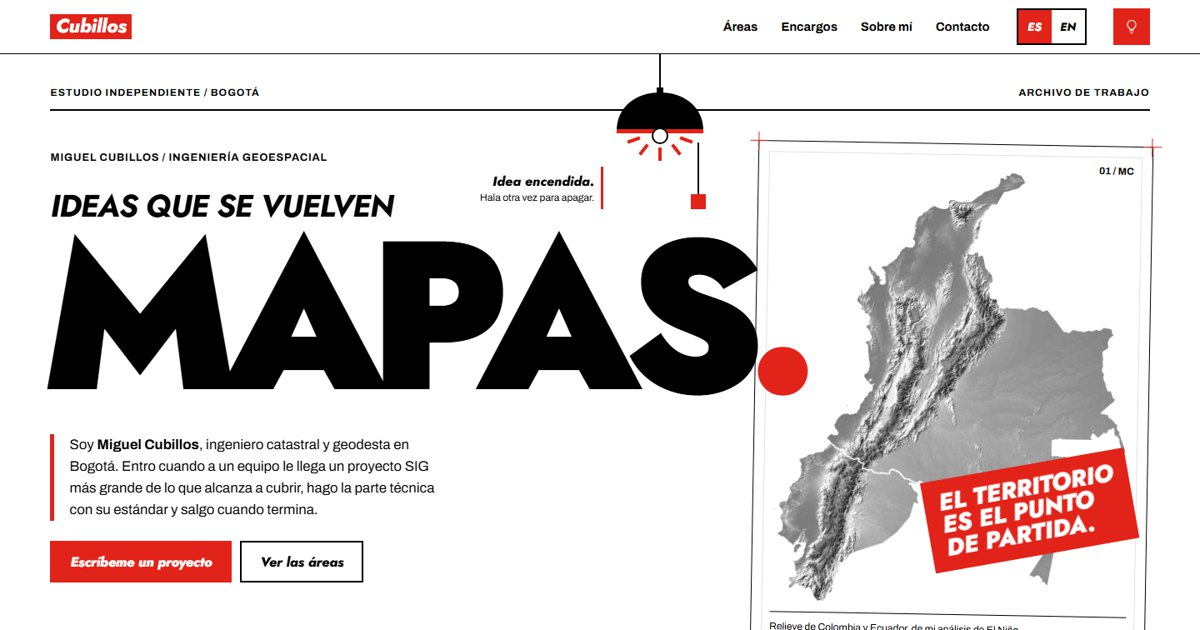
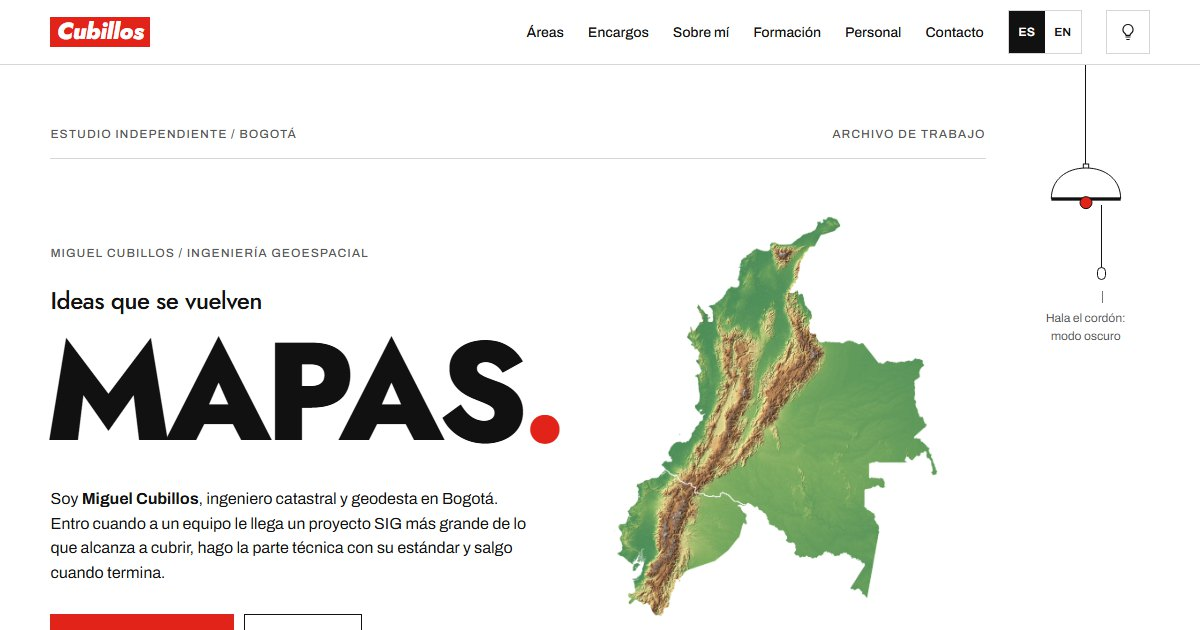
Menu con Formacion y Personal, Instagram en contacto, ficha de persona para buscadores, sitemap, robots e imagen para compartir nueva

diff --git a/index.html b/index.html
@@ -14,13 +14,14 @@
 <meta property="og:description" content="Ideas que se vuelven mapas: BIM a interiores, automatización, teledetección, riesgo, cartografía y docencia.">
 <meta property="og:url" content="https://cubillos22.github.io/">
 <meta property="og:image" content="https://cubillos22.github.io/assets/og-preview.jpg">
+<script type="application/ld+json">{"@context":"https://schema.org","@type":"Person","name":"Miguel Ángel Cubillos Cohecha","alternateName":"Miguel Cubillos","jobTitle":"Ingeniero catastral y geodesta · SIG","url":"https://cubillos22.github.io/","image":"https://cubillos22.github.io/assets/og-preview.jpg","address":{"@type":"PostalAddress","addressLocality":"Bogotá","addressCountry":"CO"},"alumniOf":{"@type":"CollegeOrUniversity","name":"Universidad Distrital Francisco José de Caldas"},"knowsAbout":["SIG","GIS","ArcGIS","BIM","ArcGIS Indoors","Python","Teledetección","InSAR","LiDAR","Cartografía","Gestión del riesgo"],"sameAs":["https://www.linkedin.com/in/miguel-cubillos/","https://www.instagram.com/cubillos__/","https://github.com/cubillos22","https://scienti.minciencias.gov.co/cvlac/visualizador/generarCurriculoCv.do?cod_rh=0002532098"]}</script>
 <meta name="twitter:card" content="summary_large_image">
 <link rel="icon" href="assets/favicon.svg?v=2" type="image/svg+xml">
 <link rel="icon" href="assets/favicon-32.png?v=2" sizes="32x32" type="image/png">
 <link rel="apple-touch-icon" href="assets/apple-touch-icon.png?v=2">
 <link rel="preconnect" href="https://fonts.googleapis.com"><link rel="preconnect" href="https://fonts.gstatic.com" crossorigin>
 <link href="https://fonts.googleapis.com/css2?family=Jost:ital,wght@0,400..900;1,400..900&family=Archivo:wdth,wght@62..125,400..800&display=swap" rel="stylesheet">
-<link rel="stylesheet" href="assets/box.css?v=20">
+<link rel="stylesheet" href="assets/box.css?v=21">
 <script>/* tema e idioma antes de pintar, sin parpadeo */(function(h){try{var q=new URLSearchParams(location.search).get("lang"),l=q||localStorage.getItem("lang")||((navigator.language||"es").slice(0,2)=="es"?"es":"en"),s=localStorage.getItem("light"),on=s?s=="1":!matchMedia("(prefers-color-scheme: dark)").matches;h.lang=h.dataset.lang=l;h.dataset.theme=on?"light":"dark";h.classList.toggle("lamp-on",on)}catch(e){}})(document.documentElement)</script>
 </head>
 <body>
@@ -32,6 +33,8 @@
   <a href="#areas"><span lang="es">Áreas</span><span lang="en">Areas</span></a>
   <a href="#servicios"><span lang="es">Encargos</span><span lang="en">Services</span></a>
   <a href="#sobre"><span lang="es">Sobre mí</span><span lang="en">About</span></a>
+  <a href="#formacion"><span lang="es">Formación</span><span lang="en">Training</span></a>
+  <a href="#personal"><span lang="es">Personal</span><span lang="en">Personal</span></a>
   <a href="#contacto"><span lang="es">Contacto</span><span lang="en">Contact</span></a>
  </nav>
  <button class="lang-toggle" type="button" aria-pressed="false" aria-label="Cambiar a inglés" data-label-en="Switch to Spanish" data-cursor="Idioma" data-cursor-en="Language"><span class="o" data-l="es">ES</span><span class="o" data-l="en">EN</span><i aria-hidden="true"></i></button>
@@ -262,13 +265,13 @@
 <h2 id="h-contact"><span lang="es"><span class="kb">Cuéntame</span><span class="kb">qué le falta</span><span class="kb">a tu proyecto.</span></span><span lang="en"><span class="kb">Tell me what</span><span class="kb">your project</span><span class="kb">is missing.</span></span></h2>
 <a class="mail" href="mailto:cubillosmiguel__@hotmail.com?subject=Proyecto%20SIG" translate="no">cubillosmiguel__@hotmail.com</a>
 <span class="hint"><span lang="es">Dos guiones bajos antes de la @.</span><span lang="en">Two underscores before the @.</span></span>
-<div class="ctas"><a class="btn solid" data-magnet href="mailto:cubillosmiguel__@hotmail.com?subject=Proyecto%20SIG"><span lang="es">Escribir un correo</span><span lang="en">Send an email</span></a><a class="btn" href="https://www.linkedin.com/in/miguel-cubillos/" target="_blank" rel="noopener">LinkedIn</a></div>
+<div class="ctas"><a class="btn solid" data-magnet href="mailto:cubillosmiguel__@hotmail.com?subject=Proyecto%20SIG"><span lang="es">Escribir un correo</span><span lang="en">Send an email</span></a><a class="btn" href="https://www.linkedin.com/in/miguel-cubillos/" target="_blank" rel="noopener">LinkedIn</a><a class="btn" href="https://www.instagram.com/cubillos__/" target="_blank" rel="noopener">Instagram</a></div>
 <footer class="foot"><span translate="no">Miguel Ángel Cubillos Cohecha</span><span><span lang="es">Bogotá, Colombia · trabajo remoto</span><span lang="en">Bogotá, Colombia · remote work</span></span><a href="#inicio"><span lang="es">Volver arriba</span><span lang="en">Back to top</span></a></footer>
 </section>
 </main>
 <a class="float-cta" href="mailto:cubillosmiguel__@hotmail.com?subject=Proyecto%20SIG" data-cursor="Escribir" data-cursor-en="Write"><i aria-hidden="true"></i><span lang="es">Trabajemos</span><span lang="en">Let's work</span></a>
-<script src="assets/estudio.js?v=20" defer></script>
-<script src="assets/vivo.js?v=20" defer></script>
-<script src="assets/mundo.js?v=20" defer></script>
+<script src="assets/estudio.js?v=21" defer></script>
+<script src="assets/vivo.js?v=21" defer></script>
+<script src="assets/mundo.js?v=21" defer></script>
 </body>
 </html>
